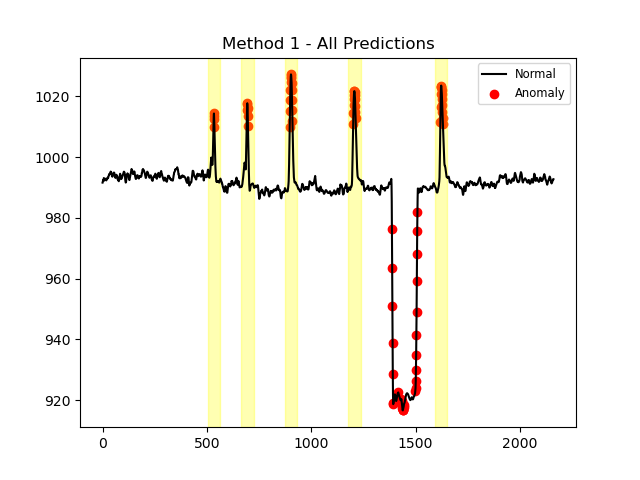
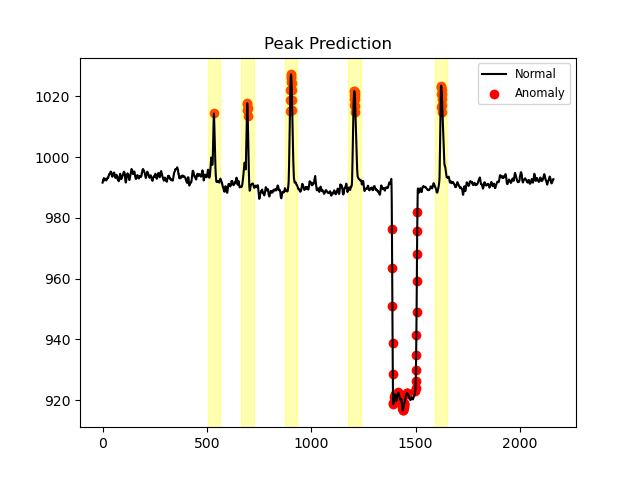
Predicting plots without annotation codes works now

diff --git a/Peak_Detection/utils.py b/Peak_Detection/utils.py
@@ -242,7 +242,7 @@ def plot_peak_predictions(fly_db, fly_names, experiments, config, bouts_dict):
         os.makedirs('peak_plots_output')
 
     for fly_nm, exp_id in zip(fly_names, experiments):
-        fly = fly_db.get_fly(fly_nm, exp_id)
+        fly = fly_db.get_fly(fly_nm, int(exp_id))
         if fly is None:
             print(f'Fly Name: {fly_nm}, Experiment ID: {exp_id} Not Found!!!')
             continue
@@ -264,7 +264,7 @@ def plot_and_save_data(data_x, data_y, peak_x, peak_y, fly, show_annot, is_filte
         for true_peaks in fly.peak_index:
             min_range, max_range = true_peaks - 30, true_peaks + 30
             plt.axvspan(min_range, max_range, color='yellow', alpha=0.3)
-    plt.title("Method 1 - All Predictions")
+    plt.title("Peak Prediction")
     plt.legend(fontsize='small')
     plot_filename_all = os.path.join('peak_plots_output', f"{fly.name}_{fly.trial_id}_{'filtered' if is_filtered else 'all'}.png")
     plt.savefig(plot_filename_all)

diff --git a/Peak_Detection/plot_all_peaks.py b/Peak_Detection/plot_all_peaks.py
@@ -8,12 +8,11 @@ def plot_all_peaks(config):
     if not os.path.exists(base_dir):
         os.makedirs(base_dir)
 
-    bouts_dict = utils.read_pickle('/Users/mpekey/Desktop/FlyVideo/Peak_Signal_Data/bouts_dict.pkl')
-    true_peak_annotations_df = utils.read_pickle('/Users/mpekey/Desktop/FlyVideo/Peak_Signal_Data/true_annotations.pkl')
+    bouts_dict = utils.read_pickle('bouts_dict.pkl')
+    true_peak_annotations_df = utils.read_pickle('true_annotations.pkl')
     fly_db = utils.create_fly_database(bouts_dict, true_peak_annotations_df=true_peak_annotations_df)
 
     for fly in fly_db.fly_data:
-        all_results_group = []
         info_df = utils.get_model_prediction(fly, config, bouts_dict)
         
         anomalies = info_df.loc[info_df['predictions'] == -1, ['distance.origin-prob']]

diff --git a/Peak_Detection/plot_peaks.py b/Peak_Detection/plot_peaks.py
@@ -5,7 +5,7 @@ def main(fly_data, args):
     bouts_dict = utils.read_pickle('bouts_dict.pkl')
     true_peak_annotations_df = utils.read_pickle('true_annotations.pkl')
 
-    fly_db = utils.create_fly_database(true_peak_annotations_df)
+    fly_db = utils.create_fly_database(bouts_dict, true_peak_annotations_df)
     config = utils.create_config(features=args.features,
                                  contamination=args.contamination,
                                  grouped_range=args.grouped_range,

diff --git a/Peak_Detection/evaluate_predictions.py b/Peak_Detection/evaluate_predictions.py
@@ -5,7 +5,7 @@ def main(args):
     bouts_dict = utils.read_pickle('bouts_dict.pkl')
     true_peak_annotations_df = utils.read_pickle('true_annotations.pkl')
 
-    fly_db = utils.create_fly_database(true_peak_annotations_df)
+    fly_db = utils.create_fly_database(bouts_dict, true_peak_annotations_df)
     config = utils.create_config(features=args.features,
                                  contamination=args.contamination,
                                  grouped_range=args.grouped_range,
